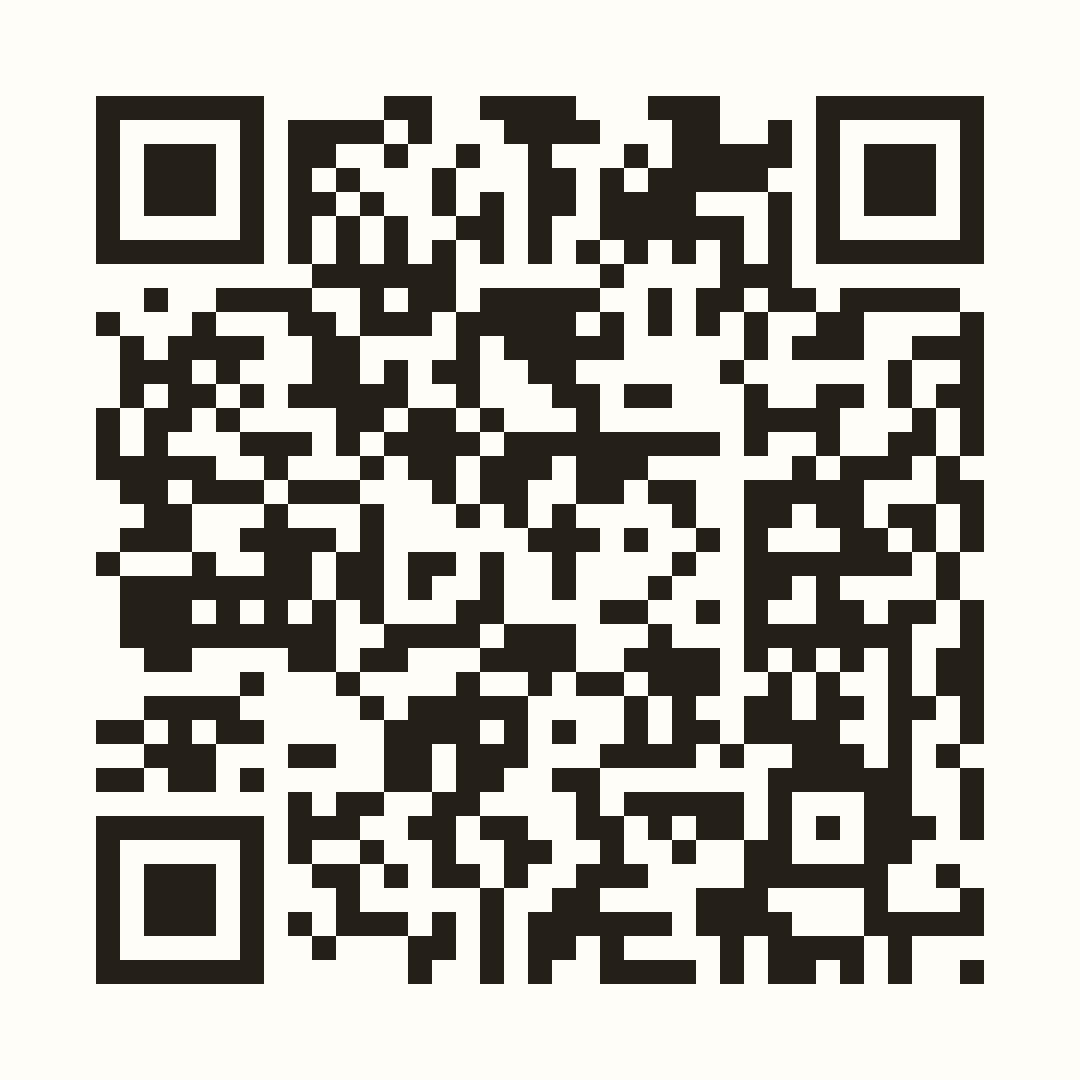
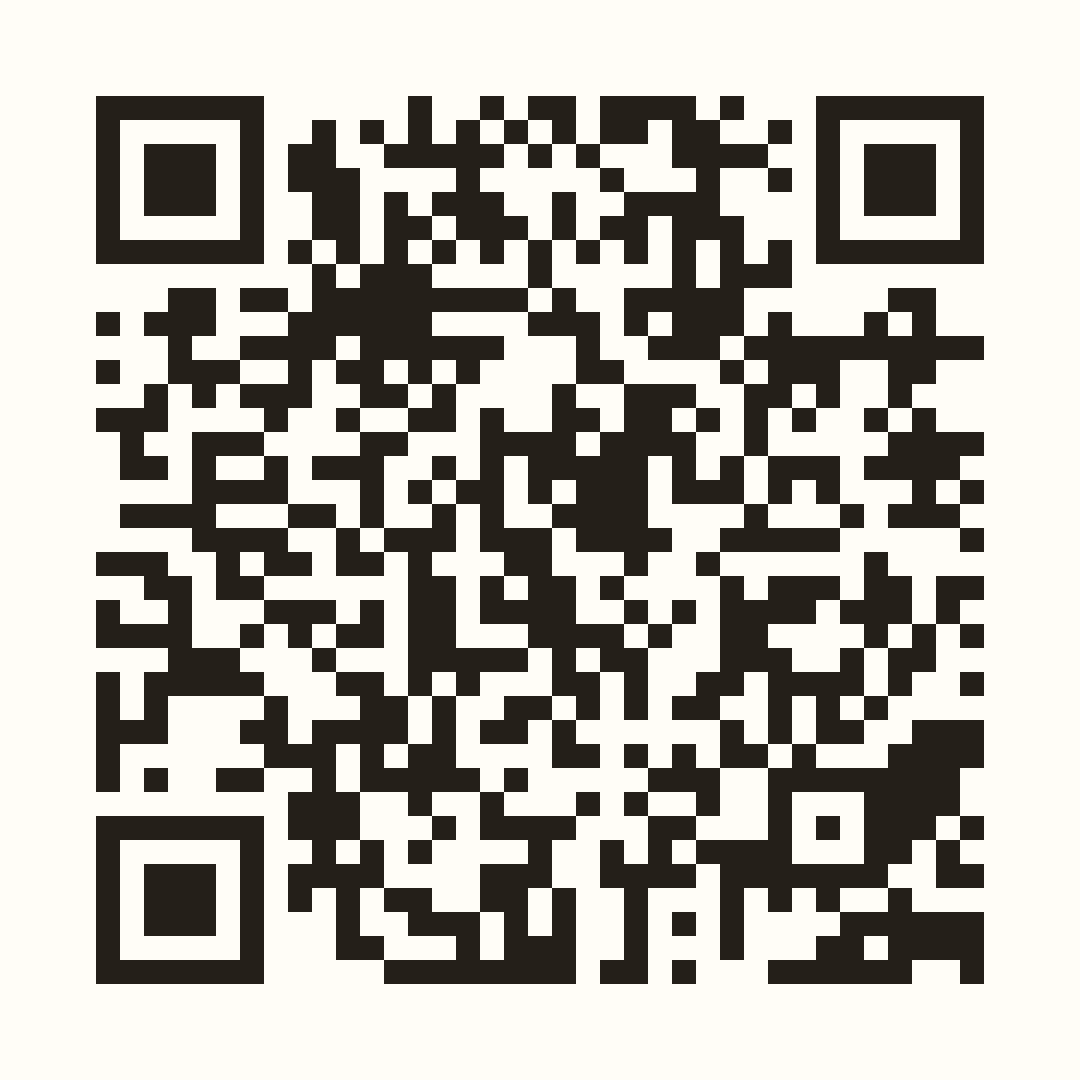
Point QR at live Pages URL

Changed region(s): [[0.0917, 0.0917, 0.9167, 0.9167], [0.6417, 0.0917, 0.7028, 0.1222]]

diff --git a/SETUP.md b/SETUP.md
@@ -12,14 +12,14 @@ gh repo create aarti-sangraha --public --source=. --push
 No `gh`? Create an empty **public** repo on github.com named `aarti-sangraha`, then:
 
 ```bash
-git remote add origin https://github.com/YOUR-USERNAME/aarti-sangraha.git
+git remote add origin https://github.com/vggg/aarti-sangraha.git
 git push -u origin main
 ```
 
 Then in the repo: **Settings → Pages → Build and deployment**
 Source: *Deploy from a branch* · Branch: **main** · Folder: **/docs** · Save.
 
-A minute later the page is live at `https://YOUR-USERNAME.github.io/aarti-sangraha/`.
+A minute later the page is live at `https://vggg.github.io/aarti-sangraha/`.
 
 ## The repo has to be public
 
@@ -32,7 +32,7 @@ gitignored and the verses are public domain.
 The cards in `print/` currently point at a placeholder. Once Pages is live:
 
 ```bash
-python3 build/make_qr.py "https://YOUR-USERNAME.github.io/aarti-sangraha/"
+python3 build/make_qr.py "https://vggg.github.io/aarti-sangraha/"
 git add print && git commit -m "QR to live site" && git push
 ```
 
@@ -43,4 +43,4 @@ Scan it with a phone on cellular, signed out of everything, before printing a st
 If these booklets will circulate for years, point the QR at a domain you own rather than a
 `github.io` address, so you can move the site later without every printed code going dead.
 Add a `CNAME` file in `docs/` containing the domain, point a CNAME DNS record at
-`YOUR-USERNAME.github.io`, then set the custom domain under Settings → Pages.
+`vggg.github.io`, then set the custom domain under Settings → Pages.

diff --git a/README.md b/README.md
@@ -7,7 +7,7 @@ meaning for each.
 Made for families raising children outside Maharashtra, where the tune is remembered but the
 script often isn't.
 
-**Read the page:** https://YOUR-USERNAME.github.io/aarti-sangraha/ — see [SETUP.md](SETUP.md)
+**Read the page:** https://vggg.github.io/aarti-sangraha/ — see [SETUP.md](SETUP.md)
 **Print the booklet:** [`print/Aarti_Sangraha_A4_Booklet.pdf`](print/Aarti_Sangraha_A4_Booklet.pdf) — 5 A4 sheets, fold in half
 
 | | |
@@ -71,7 +71,7 @@ directories. If one is missing the build says which and stops. You need
 **Poppins** (Regular/Medium/Bold), **Caladea** (Regular/Bold) and **FreeSerif**.
 
 ```bash
-SITE_URL="https://YOUR-USERNAME.github.io/aarti-sangraha/" ./make.sh
+SITE_URL="https://vggg.github.io/aarti-sangraha/" ./make.sh
 ```
 
 That produces all three PDFs, the QR cards, and runs both acceptance tests.
